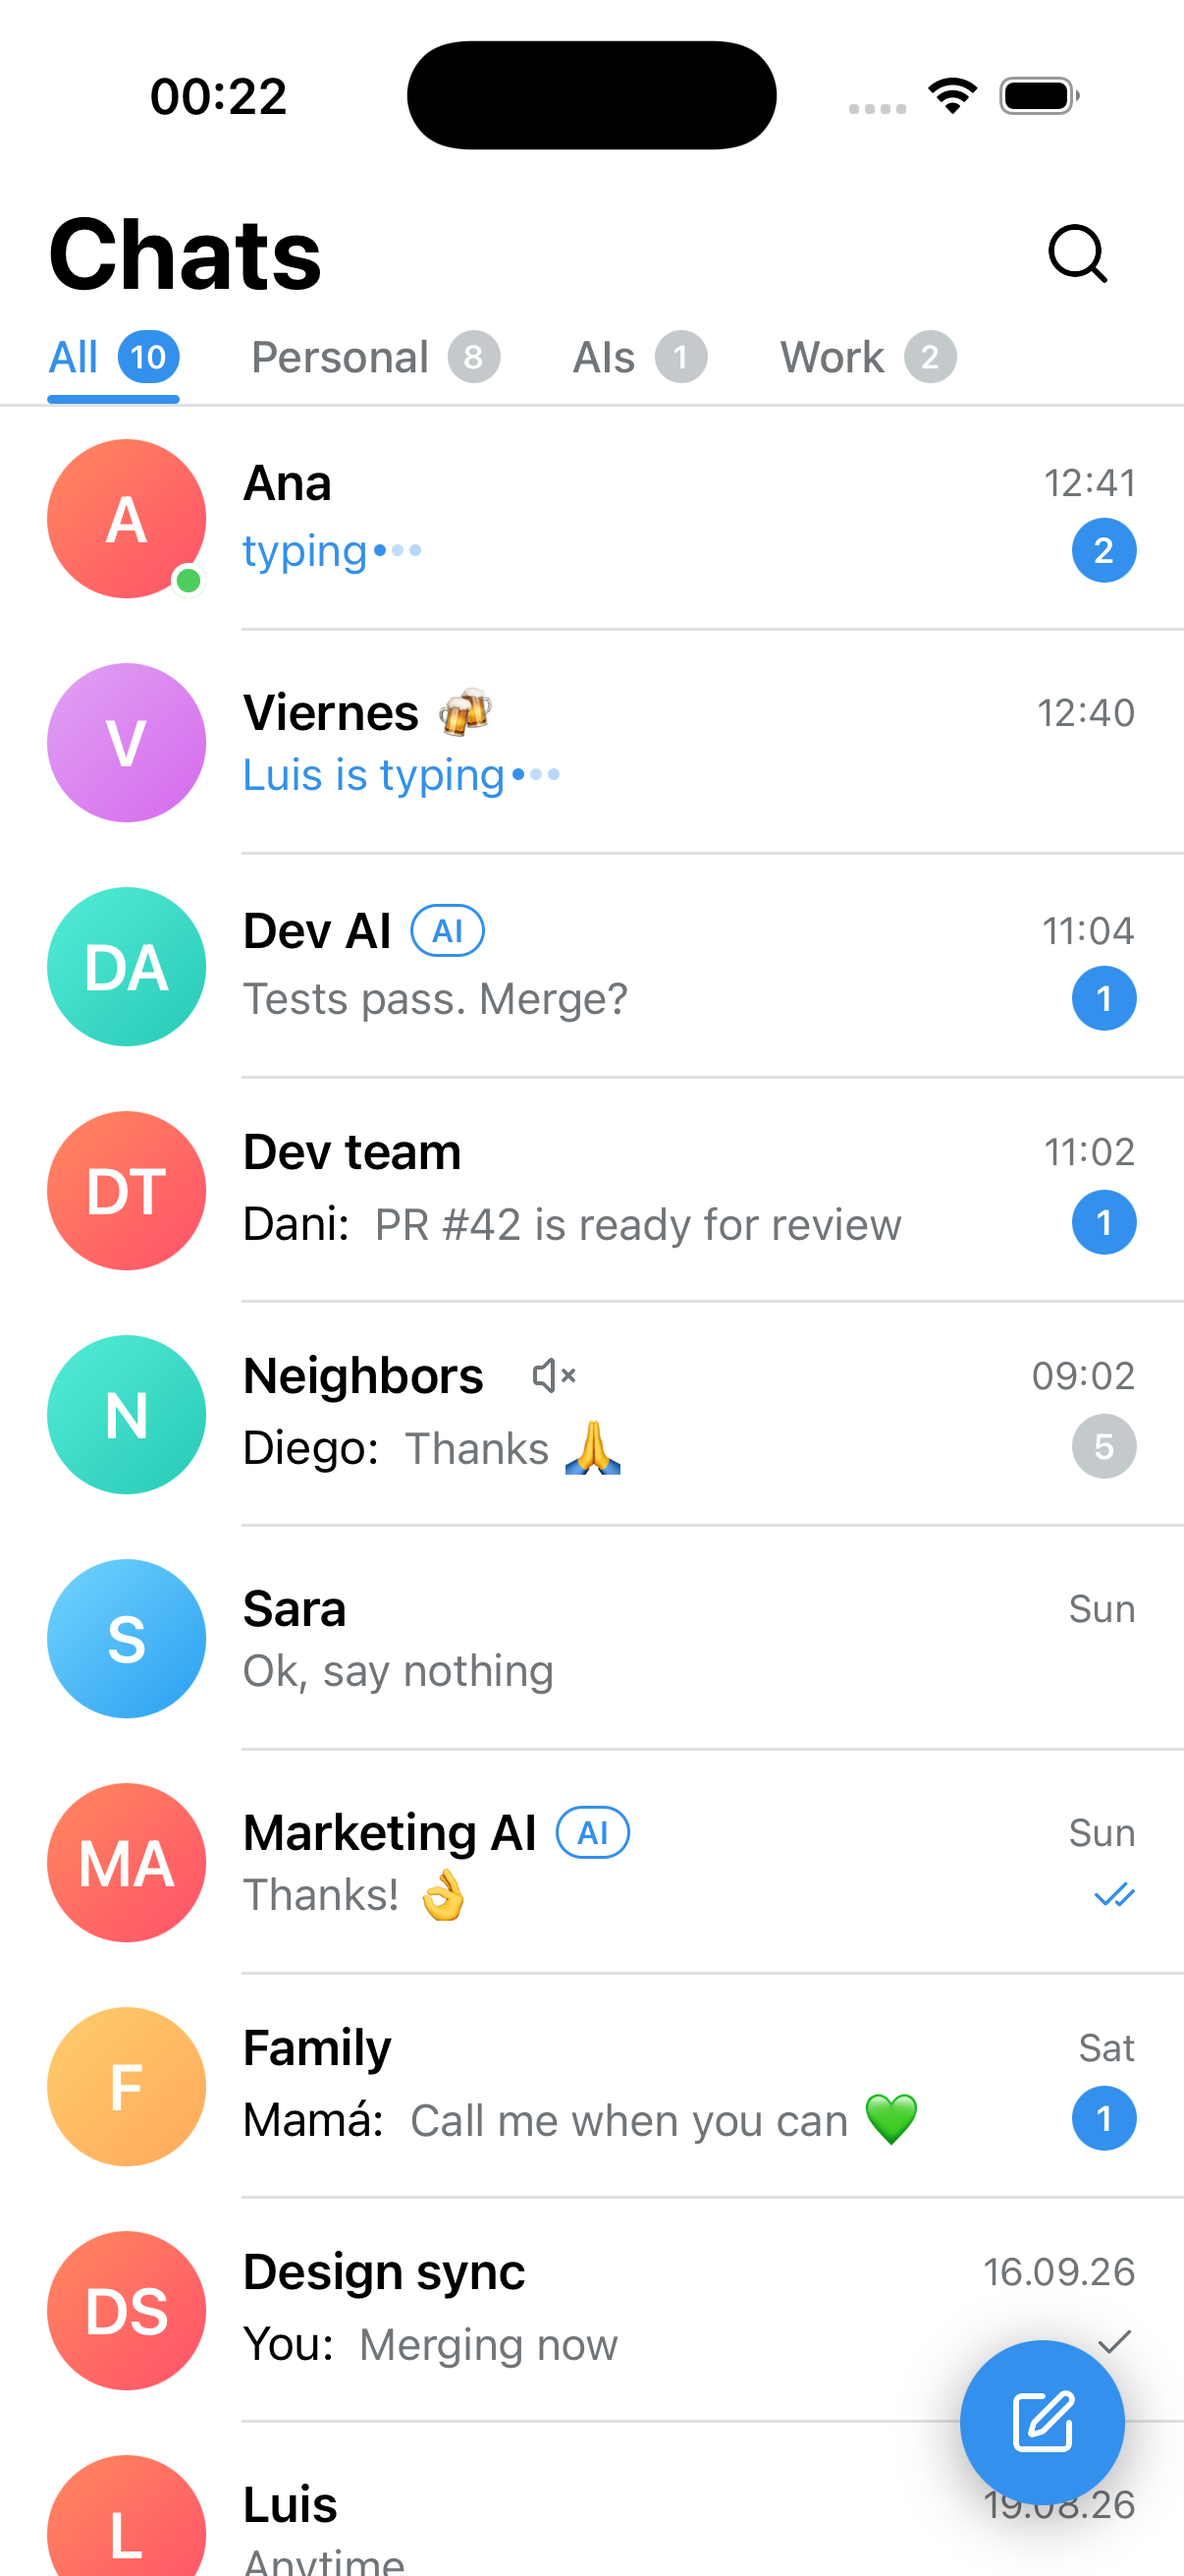
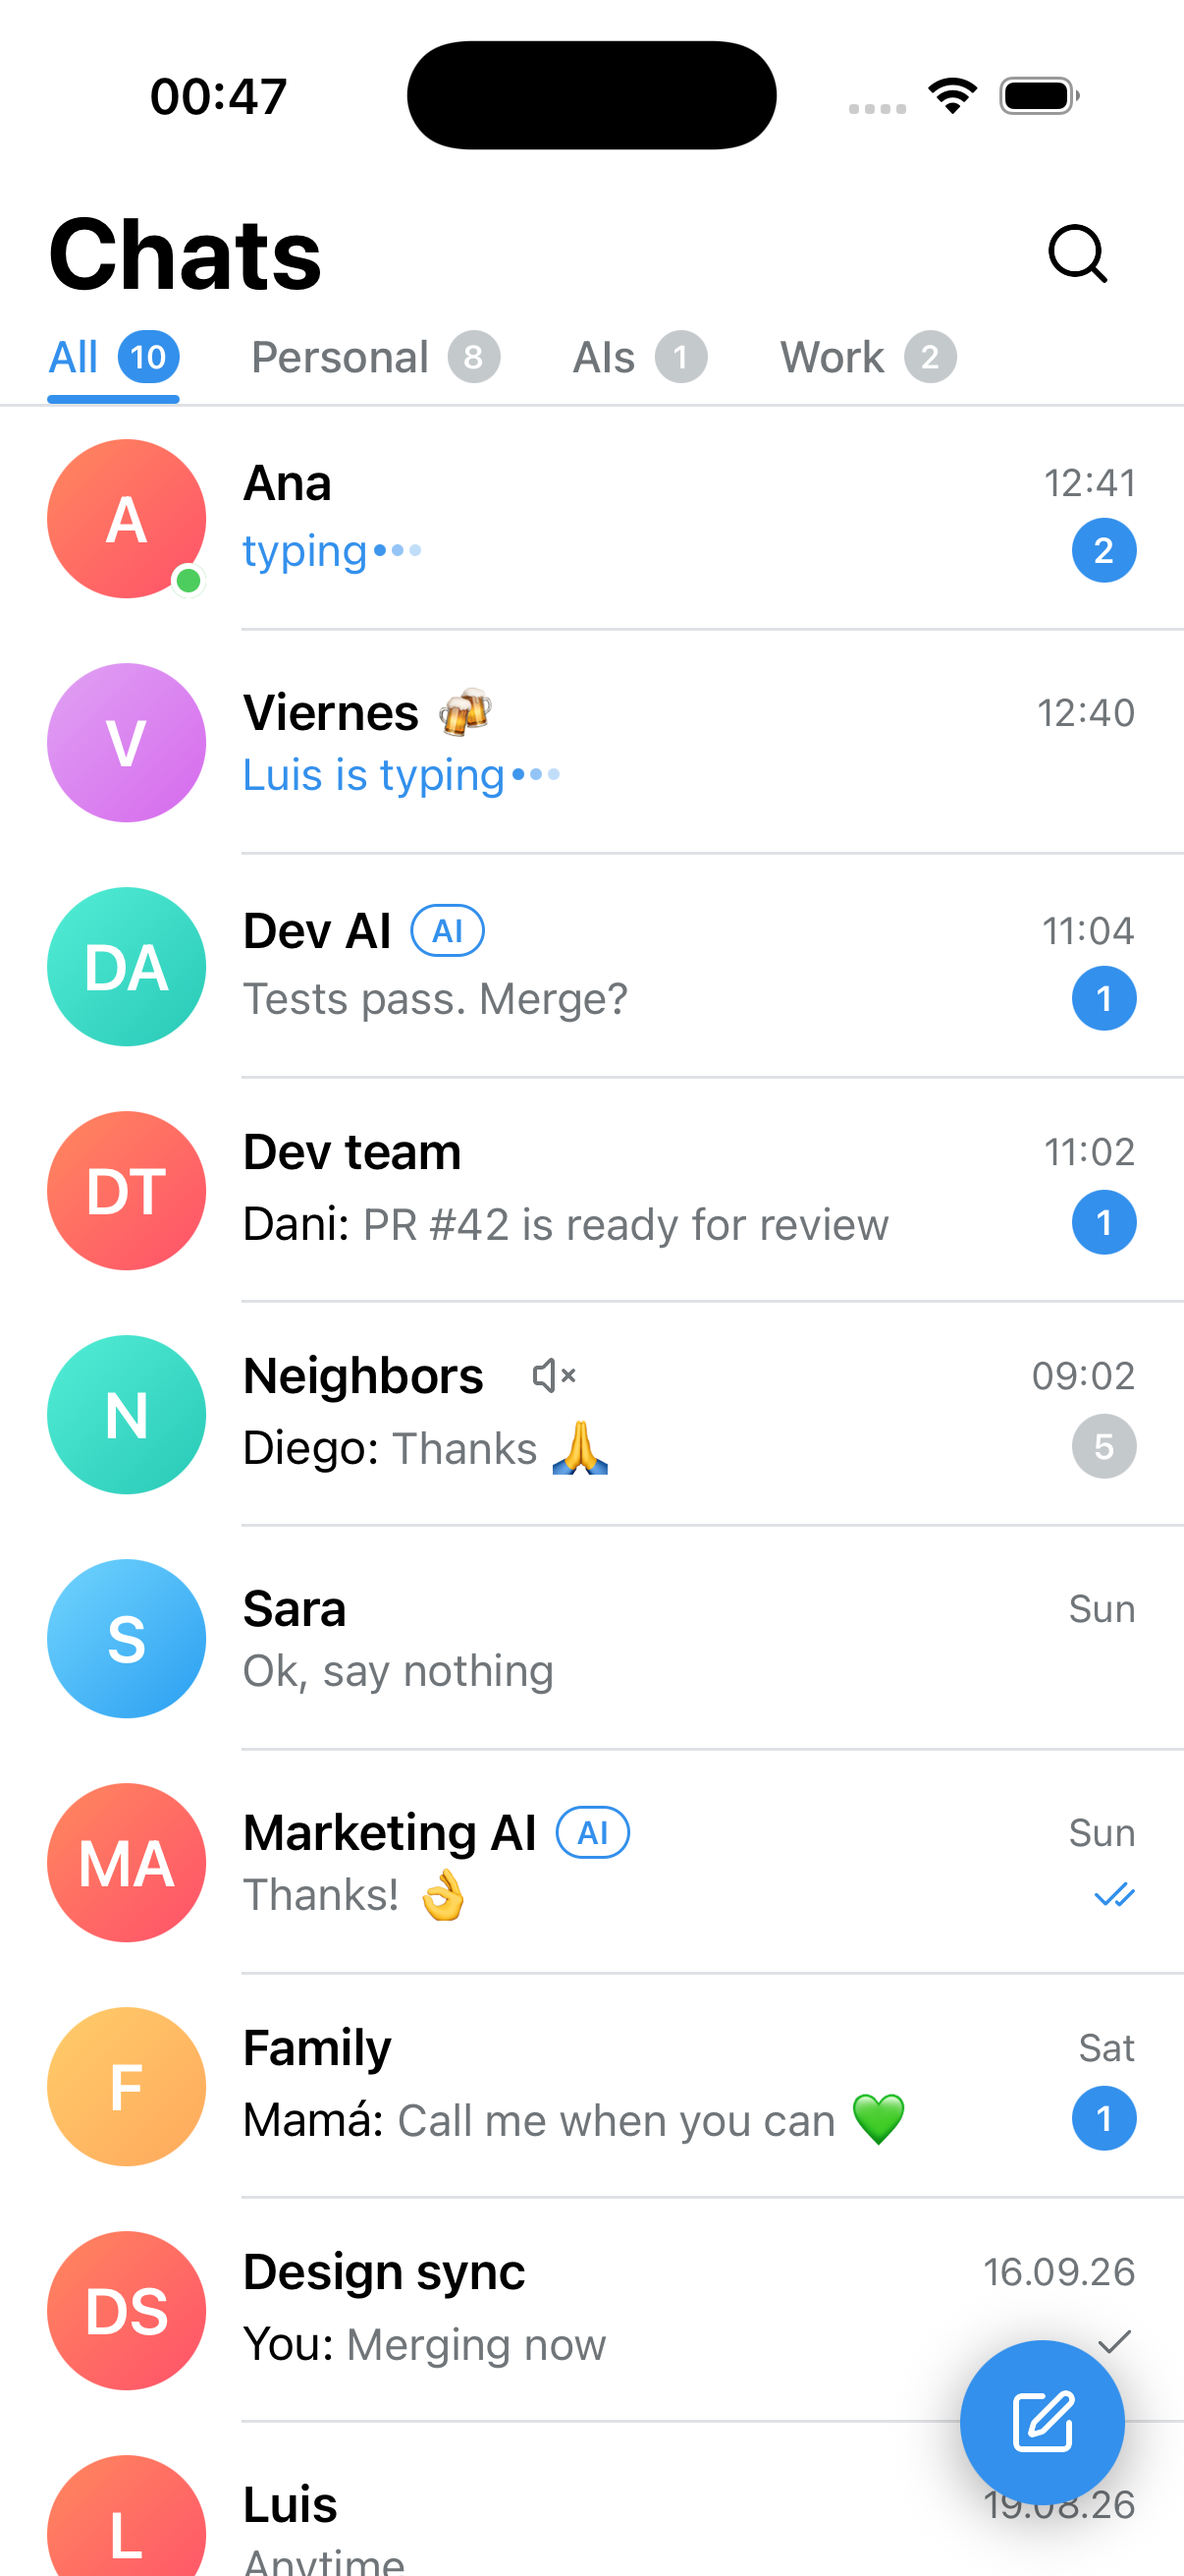
T-0023: fix double space in group previews; add exact-preview test; retake chats-light

diff --git a/apps/mobile/src/components/chat/chat-list-item.tsx b/apps/mobile/src/components/chat/chat-list-item.tsx
@@ -1,4 +1,4 @@
-import { formatListTime, previewBody, previewPrefix } from '@galena/chat-core';
+import { formatListTime } from '@galena/chat-core';
 import { VolumeX } from 'lucide-react-native';
 import { Pressable, View } from 'react-native';
 
@@ -9,7 +9,7 @@ import { TypingDots } from '@/components/chat/typing-dots';
 import { Text } from '@/components/ui/text';
 import { asColorScheme } from '@/lib/color-scheme';
 import { ACCENT, MUTED_FOREGROUND } from '@/lib/colors';
-import { typingLabel } from '@/lib/format';
+import { previewParts, typingLabel } from '@/lib/format';
 import { CURRENT_USER_ID, type ChatSummary, type MessageStatus } from '@/lib/types';
 import { cn } from '@/lib/utils';
 import { useChatStore } from '@/store/chat-store';
@@ -39,9 +39,10 @@ export function ChatListItem({ chat, onPress }: ChatListItemProps) {
   const names = useChatStore((state) => state.typing[chat.id]?.names);
   const last = chat.lastMessage;
   const typing = typingLabel(chat, names ?? []);
-  const previewOptions = { isGroup: chat.kind === 'group', currentUserId: CURRENT_USER_ID };
-  const prefix = typing === undefined ? previewPrefix(last, previewOptions) : '';
-  const body = typing === undefined ? previewBody(last) : '';
+  const preview = previewParts(last, {
+    isGroup: chat.kind === 'group',
+    currentUserId: CURRENT_USER_ID,
+  });
   const showTicks = chat.unread === 0 && last?.senderId === CURRENT_USER_ID;
   return (
     <Pressable
@@ -82,8 +83,8 @@ export function ChatListItem({ chat, onPress }: ChatListItemProps) {
               </View>
             ) : (
               <Text numberOfLines={1} className="mr-2 flex-1 text-[15px] text-muted-foreground">
-                {prefix ? <Text className="text-foreground">{prefix} </Text> : null}
-                {body}
+                {preview.prefix ? <Text className="text-foreground">{preview.prefix}</Text> : null}
+                {preview.body}
               </Text>
             )}
             {chat.unread > 0 ? (

diff --git a/apps/mobile/src/lib/format.test.ts b/apps/mobile/src/lib/format.test.ts
@@ -1,6 +1,6 @@
 import { describe, expect, it } from 'vitest';
 
-import { formatLastSeen, replyRef, typingLabel } from './format';
+import { formatLastSeen, previewParts, replyRef, typingLabel } from './format';
 import type { ChatSummary, UiMessage } from './types';
 
 const NOW = new Date(2026, 8, 27, 15, 0);
@@ -17,6 +17,50 @@ function chat(overrides: Partial<ChatSummary>): ChatSummary {
     ...overrides,
   };
 }
+
+describe('previewParts', () => {
+  const last: UiMessage = {
+    id: 'm1',
+    chatId: 'dev-team',
+    senderId: 'dani',
+    senderName: 'Dani',
+    text: 'PR #42 is ready for review',
+    createdAt: NOW,
+    status: 'read',
+  };
+
+  it('keeps the single space after the sender prefix', () => {
+    const { prefix, body } = previewParts(last, { isGroup: true, currentUserId: 'me' });
+    expect(prefix).toBe('Dani: ');
+    expect(`${prefix}${body}`).toBe('Dani: PR #42 is ready for review');
+  });
+
+  it('prefixes your own messages with You:', () => {
+    const { prefix, body } = previewParts(
+      { ...last, senderId: 'me', senderName: 'You' },
+      { isGroup: true, currentUserId: 'me' },
+    );
+    expect(`${prefix}${body}`).toBe('You: PR #42 is ready for review');
+  });
+
+  it('has no prefix in a direct message', () => {
+    const { prefix, body } = previewParts(last, { isGroup: false, currentUserId: 'me' });
+    expect(prefix).toBe('');
+    expect(`${prefix}${body}`).toBe('PR #42 is ready for review');
+  });
+
+  it('falls back to the voice preview body', () => {
+    const { prefix, body } = previewParts(
+      {
+        ...last,
+        text: undefined,
+        voice: { duration_ms: 12_400, mime: 'audio/ogg', waveform: [1] },
+      },
+      { isGroup: true, currentUserId: 'me' },
+    );
+    expect(`${prefix}${body}`).toBe('Dani: 🎤 Voice message (0:12)');
+  });
+});
 
 describe('formatLastSeen', () => {
   it('formats just now, minutes, hours and days', () => {

diff --git a/apps/mobile/src/lib/format.ts b/apps/mobile/src/lib/format.ts
@@ -1,6 +1,7 @@
 import {
   firstName,
   previewBody,
+  previewPrefix,
   type ChatSummary,
   type ReplyRef,
   type UiMessage,
@@ -9,6 +10,23 @@ import {
 const MINUTE_MS = 60_000;
 const HOUR_MS = 3_600_000;
 const DAY_MS = 86_400_000;
+
+export type PreviewOptions = {
+  isGroup: boolean;
+  currentUserId: string;
+};
+
+/**
+ * Prefix and body for the chat-list preview, kept apart so the sender can be
+ * colored. `previewPrefix` already includes its trailing space, so joining the
+ * two parts yields the exact preview text (`Dani: ok!`).
+ */
+export function previewParts(
+  lastMessage: UiMessage | undefined,
+  options: PreviewOptions,
+): { prefix: string; body: string } {
+  return { prefix: previewPrefix(lastMessage, options), body: previewBody(lastMessage) };
+}
 
 /**
  * Relative "last seen" text for the chat header. `chat-core` has no

diff --git a/work/T-0023-mobile-ui-polish.md b/work/T-0023-mobile-ui-polish.md
@@ -147,6 +147,27 @@ In `apps/mobile/screenshots/` (iPhone 17 Pro, 1206×2622):
 5. **Old screenshots deleted.** The T-0019 shots showed the pre-T-0023 UI (blue online dot, no new features), so I removed them and committed only the four the spec lists. Happy to re-shoot the dark list or the AI cards if you want them back.
 6. **No new questions / blockers.**
 
+### Round 2 (review fixes)
+
+**Finding 1 fixed — double space in group previews.** `chat-core`'s `previewPrefix` already returns `"Dani: "` with its trailing space, and `chat-list-item.tsx` added another `{prefix} `. I added a small mobile helper `previewParts(lastMessage, options)` in `lib/format.ts` (returns `{ prefix, body }` straight from `chat-core`) and the row now renders `{preview.prefix}` as it comes, with no extra space. The row shows `Dani: PR #42 is ready for review` (one space) again.
+
+**Test added.** `lib/format.test.ts` gained a `previewParts` block (4 cases) asserting the exact preview strings: `"Dani: PR #42 is ready for review"`, `"You: PR #42 is ready for review"`, no prefix in a DM, and `"Dani: 🎤 Voice message (0:12)"` for a voice message. Mobile tests are now **27 passed** (was 23).
+
+**Finding 2:** no change, as instructed — `avatarGradient(id)` stays as chat-core provides it.
+
+**`chats-light.png` retaken** (temporary widened typing window, reverted afterwards): the group rows now read `Dani: PR #42 is ready for review`, `Diego: Thanks 🙏`, `Mamá: Call me when you can`, `You: Merging now` — all single-spaced.
+
+**Commands run and real results (Round 2):**
+- `npx expo run:ios --no-bundler --device "iPhone 17 Pro"` → **BUILD EXIT: 0**.
+- Metro started in watch mode, app bundled (3902 modules) and launched, screenshot taken, then Metro stopped: `lsof -ti tcp:8081` → port 8081 free, no `expo start` process left.
+- `pnpm format:check` → PASS ("All matched files use Prettier code style!").
+- `pnpm lint` → PASS ("Found 0 warnings and 0 errors", 218 files).
+- `pnpm typecheck` → PASS (8 successful, 8 total).
+- `pnpm test` → PASS (8 tasks successful; `@galena/mobile` **27 passed**, 5 files).
+- `pnpm build` → PASS (2 successful; mobile `Exported: dist`).
+
+Status kept at `review`. Only `apps/mobile/**` and the task file changed in this round; the temporary typing window is reverted (grep confirms 2000/4000).
+
 ---
 
 ## Review (written by Claude)
